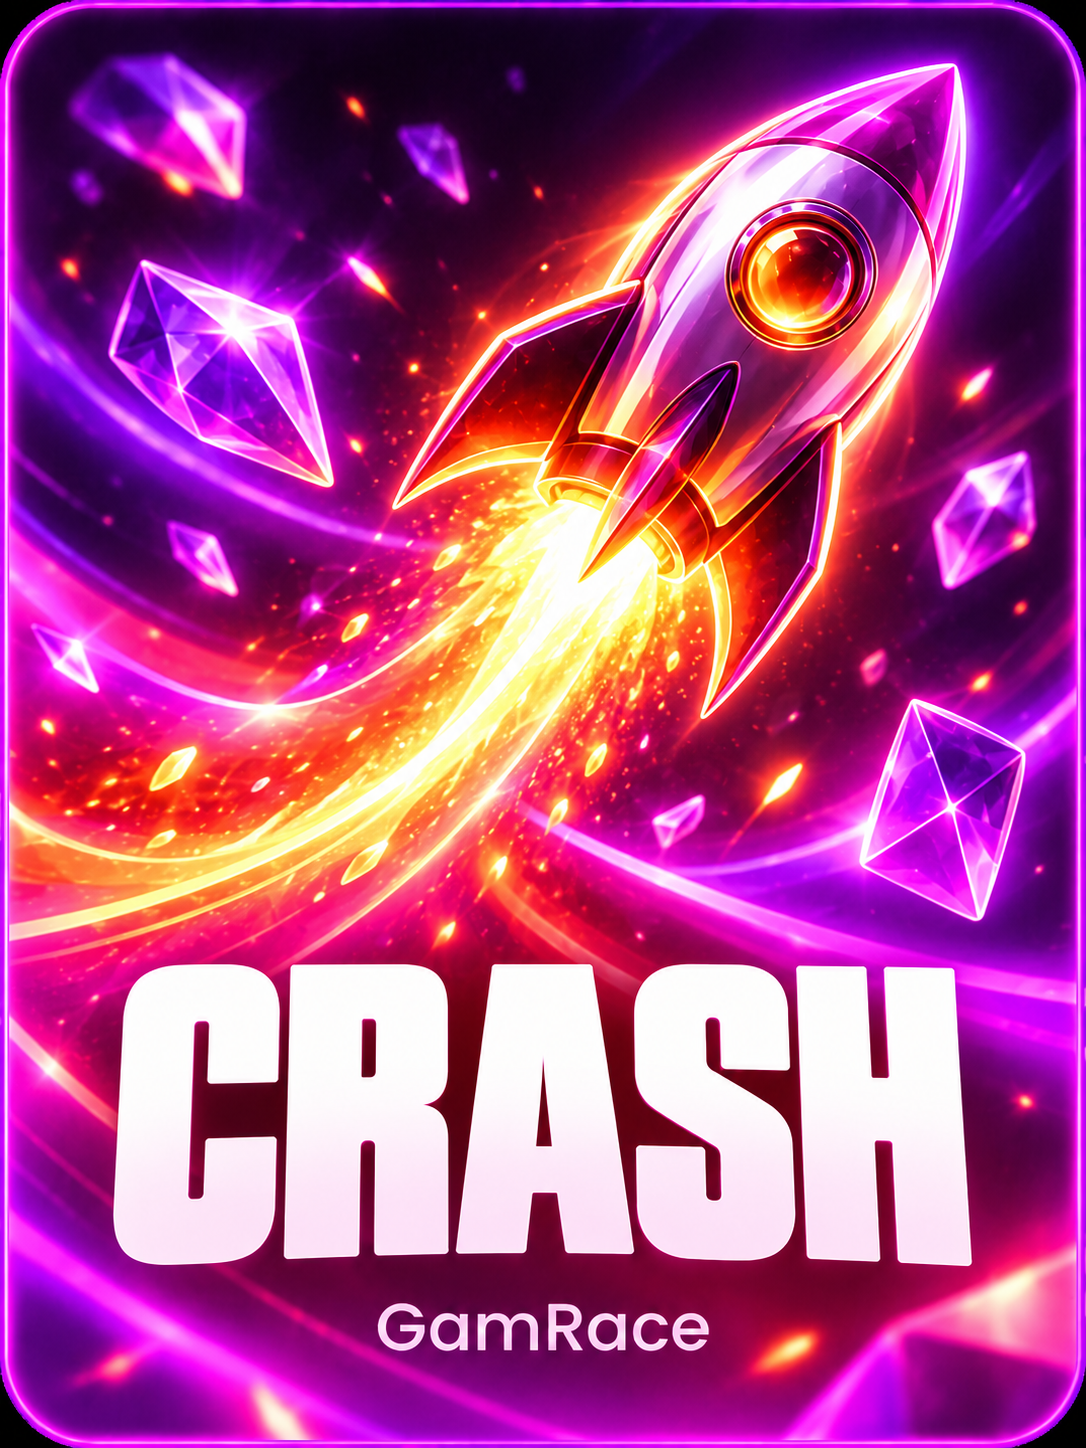
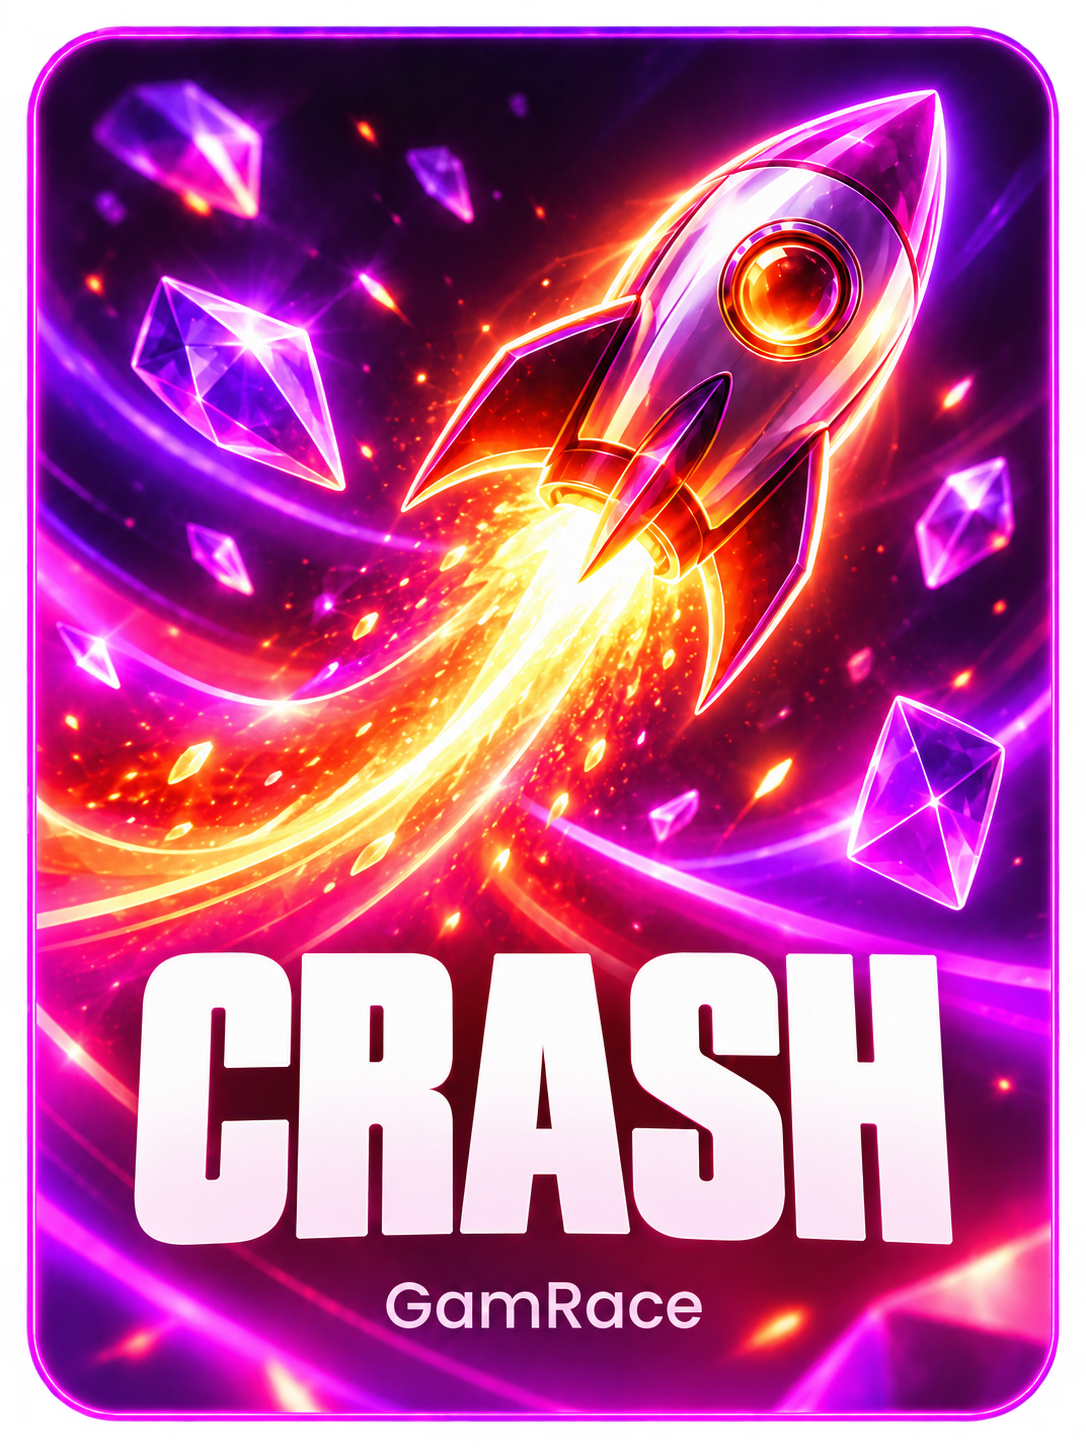
Enlarge original cards and remove dark corners

diff --git a/index.html b/index.html
@@ -10,7 +10,7 @@
     />
     <title>GamRace</title>
     <link rel="icon" type="image/png" href="assets/brand/gamrace-icon.png" />
-    <link rel="stylesheet" href="styles.css?v=originals-cards-1" />
+    <link rel="stylesheet" href="styles.css?v=originals-cards-2" />
   </head>
   <body>
     <div class="app-shell">
@@ -104,18 +104,18 @@
               </div>
             </div>
             <div class="card-row originals-grid" id="originals-row">
-              <a class="game-card original" data-name="mines gamrace original" href="game.html?game=mines" aria-label="Open Mines"><img class="original-card-art" src="assets/games/originals/mines.png" alt="Mines" /></a>
-              <a class="game-card original" data-name="crash gamrace original" href="game.html?game=crash" aria-label="Open Crash"><img class="original-card-art" src="assets/games/originals/crash.png" alt="Crash" /></a>
-              <a class="game-card original" data-name="blackjack gamrace original" href="game.html?game=blackjack" aria-label="Open Blackjack"><img class="original-card-art" src="assets/games/originals/blackjack.png" alt="Blackjack" /></a>
-              <a class="game-card original" data-name="dice gamrace original" href="game.html?game=dice" aria-label="Open Dice"><img class="original-card-art" src="assets/games/originals/dice.png" alt="Dice" /></a>
-              <a class="game-card original" data-name="plinko gamrace original" href="game.html?game=plinko" aria-label="Open Plinko"><img class="original-card-art" src="assets/games/originals/plinko.png" alt="Plinko" /></a>
-              <a class="game-card original" data-name="roulette gamrace original" href="game.html?game=roulette" aria-label="Open Roulette"><img class="original-card-art" src="assets/games/originals/roulette.png" alt="Roulette" /></a>
-              <a class="game-card original" data-name="keno gamrace original" href="game.html?game=keno" aria-label="Open Keno"><img class="original-card-art" src="assets/games/originals/keno.png" alt="Keno" /></a>
-              <a class="game-card original" data-name="wheel gamrace original" href="game.html?game=wheel" aria-label="Open Wheel"><img class="original-card-art" src="assets/games/originals/wheel.png" alt="Wheel" /></a>
-              <a class="game-card original" data-name="hi-lo hilo gamrace original" href="game.html?game=hi-lo" aria-label="Open Hi-Lo"><img class="original-card-art" src="assets/games/originals/hi-lo.png" alt="Hi-Lo" /></a>
-              <a class="game-card original" data-name="coinflip gamrace original" href="game.html?game=coinflip" aria-label="Open Coinflip"><img class="original-card-art" src="assets/games/originals/coinflip.png" alt="Coinflip" /></a>
-              <a class="game-card original" data-name="towers gamrace original" href="game.html?game=towers" aria-label="Open Towers"><img class="original-card-art" src="assets/games/originals/towers.png" alt="Towers" /></a>
-              <a class="game-card original" data-name="limbo gamrace original" href="game.html?game=limbo" aria-label="Open Limbo"><img class="original-card-art" src="assets/games/originals/limbo.png" alt="Limbo" /></a>
+              <a class="game-card original" data-name="mines gamrace original" href="game.html?game=mines" aria-label="Open Mines"><img class="original-card-art" src="assets/games/originals/mines.png?v=transparent-1" alt="Mines" /></a>
+              <a class="game-card original" data-name="crash gamrace original" href="game.html?game=crash" aria-label="Open Crash"><img class="original-card-art" src="assets/games/originals/crash.png?v=transparent-1" alt="Crash" /></a>
+              <a class="game-card original" data-name="blackjack gamrace original" href="game.html?game=blackjack" aria-label="Open Blackjack"><img class="original-card-art" src="assets/games/originals/blackjack.png?v=transparent-1" alt="Blackjack" /></a>
+              <a class="game-card original" data-name="dice gamrace original" href="game.html?game=dice" aria-label="Open Dice"><img class="original-card-art" src="assets/games/originals/dice.png?v=transparent-1" alt="Dice" /></a>
+              <a class="game-card original" data-name="plinko gamrace original" href="game.html?game=plinko" aria-label="Open Plinko"><img class="original-card-art" src="assets/games/originals/plinko.png?v=transparent-1" alt="Plinko" /></a>
+              <a class="game-card original" data-name="roulette gamrace original" href="game.html?game=roulette" aria-label="Open Roulette"><img class="original-card-art" src="assets/games/originals/roulette.png?v=transparent-1" alt="Roulette" /></a>
+              <a class="game-card original" data-name="keno gamrace original" href="game.html?game=keno" aria-label="Open Keno"><img class="original-card-art" src="assets/games/originals/keno.png?v=transparent-1" alt="Keno" /></a>
+              <a class="game-card original" data-name="wheel gamrace original" href="game.html?game=wheel" aria-label="Open Wheel"><img class="original-card-art" src="assets/games/originals/wheel.png?v=transparent-1" alt="Wheel" /></a>
+              <a class="game-card original" data-name="hi-lo hilo gamrace original" href="game.html?game=hi-lo" aria-label="Open Hi-Lo"><img class="original-card-art" src="assets/games/originals/hi-lo.png?v=transparent-1" alt="Hi-Lo" /></a>
+              <a class="game-card original" data-name="coinflip gamrace original" href="game.html?game=coinflip" aria-label="Open Coinflip"><img class="original-card-art" src="assets/games/originals/coinflip.png?v=transparent-1" alt="Coinflip" /></a>
+              <a class="game-card original" data-name="towers gamrace original" href="game.html?game=towers" aria-label="Open Towers"><img class="original-card-art" src="assets/games/originals/towers.png?v=transparent-1" alt="Towers" /></a>
+              <a class="game-card original" data-name="limbo gamrace original" href="game.html?game=limbo" aria-label="Open Limbo"><img class="original-card-art" src="assets/games/originals/limbo.png?v=transparent-1" alt="Limbo" /></a>
             </div>
           </section>
 

diff --git a/styles.css b/styles.css
@@ -94,7 +94,8 @@ a { color: inherit; text-decoration: none; }
 .section-heading .carousel-arrow:disabled { opacity: .3; cursor: default; box-shadow: none; }
 .card-row { display: grid; grid-auto-flow: column; grid-auto-columns: minmax(130px, calc((100% - 55px) / 6)); gap: 11px; margin-top: 10px; padding-bottom: 2px; overflow-x: auto; scroll-behavior: smooth; scroll-snap-type: x proximity; overscroll-behavior-inline: contain; }
 .game-card { position: relative; min-width: 0; min-height: 118px; overflow: hidden; scroll-snap-align: start; text-align: left; background: transparent; }
-.game-card.original { width: 70%; justify-self: center; border-radius: 14px; cursor: pointer; transition: transform .18s ease, filter .18s ease; }
+.originals-grid { grid-auto-columns: clamp(176px, 11vw, 220px); gap: 8px; }
+.game-card.original { width: 100%; justify-self: start; border-radius: 7%; cursor: pointer; transition: transform .18s ease, filter .18s ease; }
 .game-card.original:hover { transform: translateY(-3px); filter: brightness(1.08); }
 .original-card-art { display: block; width: 100%; height: auto; aspect-ratio: 3 / 4; object-fit: cover; border-radius: inherit; }
 button:focus-visible, a:focus-visible, input:focus-visible { outline: 2px solid var(--cyan); outline-offset: 2px; }
@@ -150,6 +151,7 @@ body.modal-open { overflow: hidden; }
   .hero-copy { padding-left: 28px; }
   .hero-copy > span { font-size: .62rem; }
   .card-row { grid-auto-columns: calc((100% - 22px) / 3); }
+  .originals-grid { grid-auto-columns: clamp(168px, 29vw, 190px); gap: 8px; }
 }
 
 @media (max-width: 860px) {
@@ -203,6 +205,7 @@ body.modal-open { overflow: hidden; }
   .section-heading .carousel-arrow { width: 38px; height: 38px; }
   .section-heading .carousel-arrow svg { width: 19px; height: 19px; }
   .card-row { grid-auto-columns: calc((100% - 11px) / 2); }
+  .originals-grid { grid-auto-columns: 46vw; gap: 8px; }
   .game-card { min-height: 108px; }
   .placeholder-art, .slot .placeholder-art, .live .placeholder-art { min-height: 92px; }
   .lobby-breathing-room { min-height: 84px; }

diff --git a/game.html b/game.html
@@ -5,7 +5,7 @@
     <meta name="viewport" content="width=device-width, initial-scale=1.0" />
     <meta name="theme-color" content="#020b12" />
     <title>GamRace</title>
-    <link rel="stylesheet" href="styles.css?v=originals-cards-1" />
+    <link rel="stylesheet" href="styles.css?v=originals-cards-2" />
   </head>
   <body class="game-placeholder-page"></body>
 </html>
